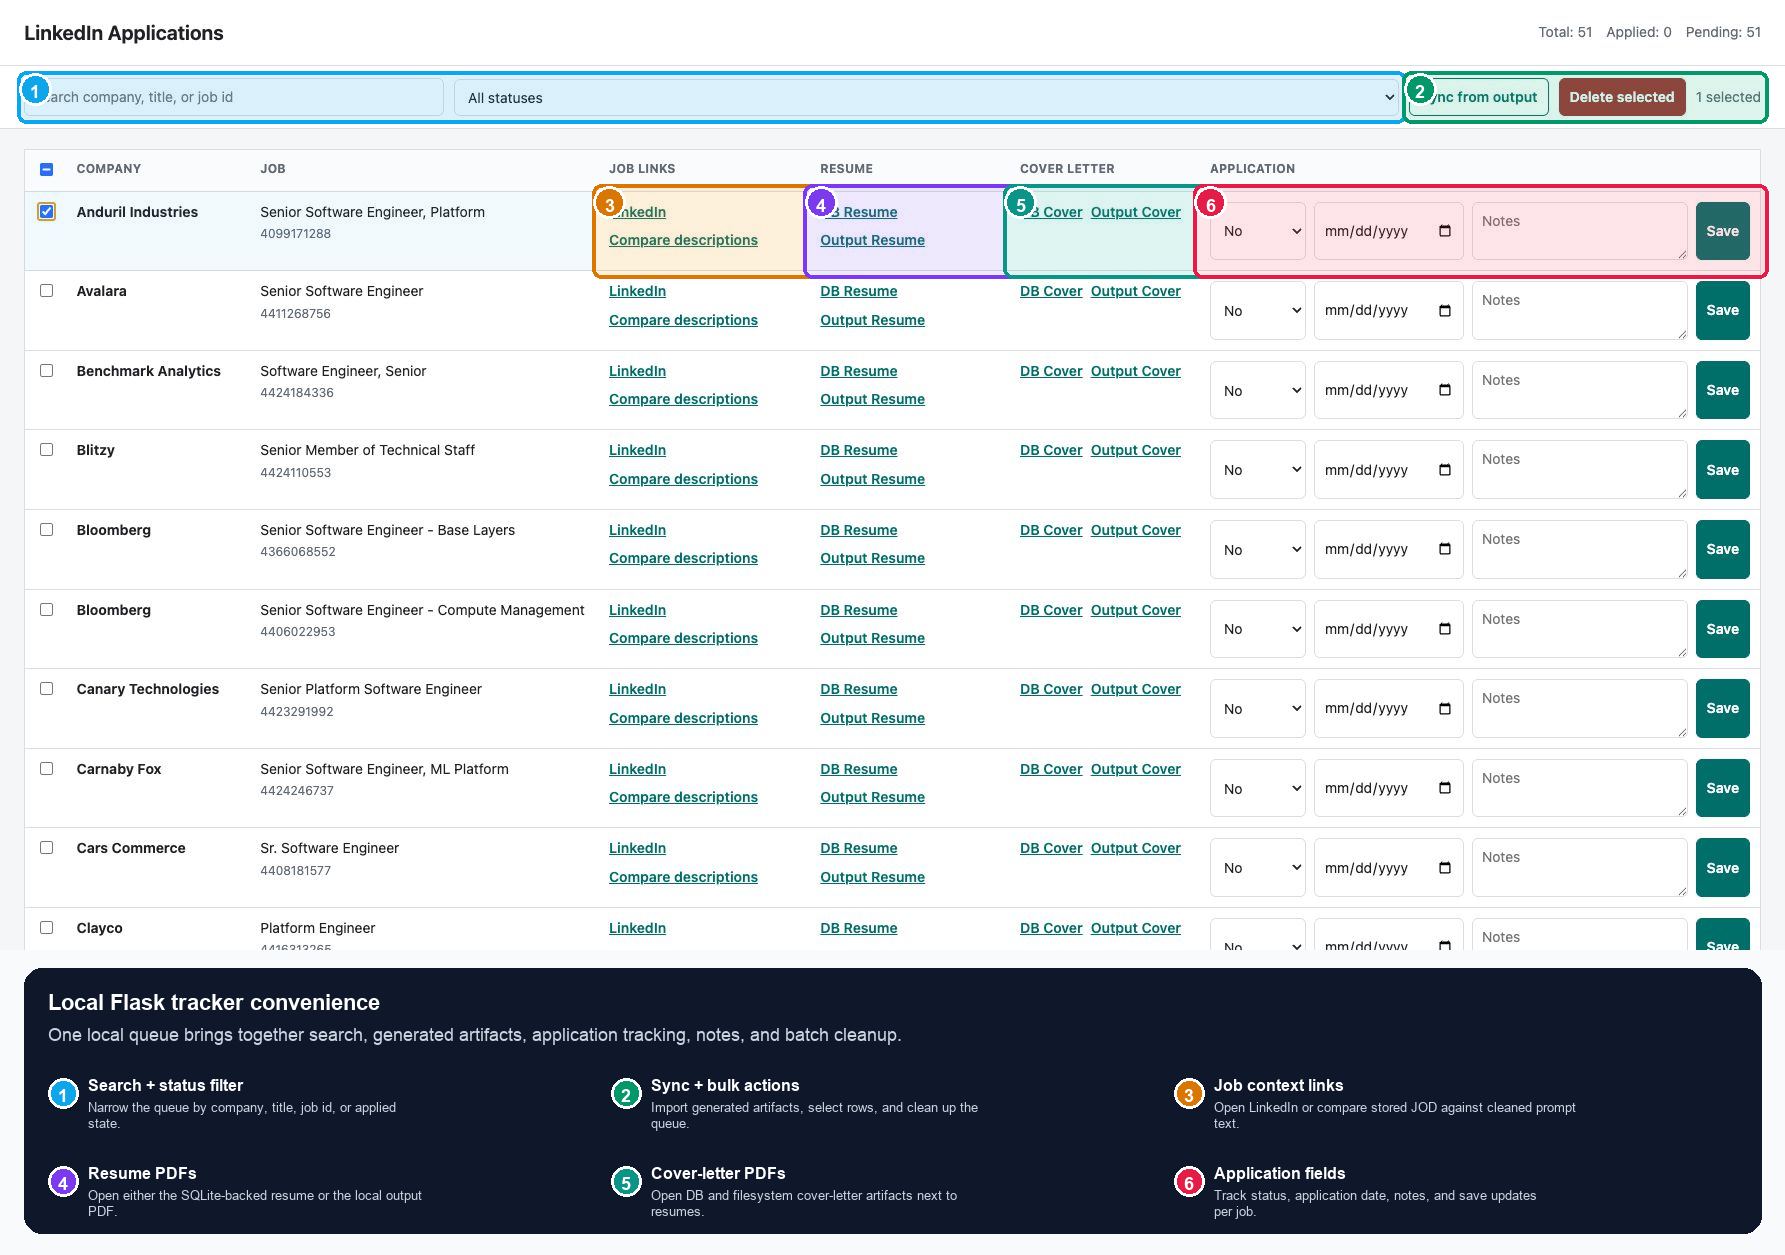
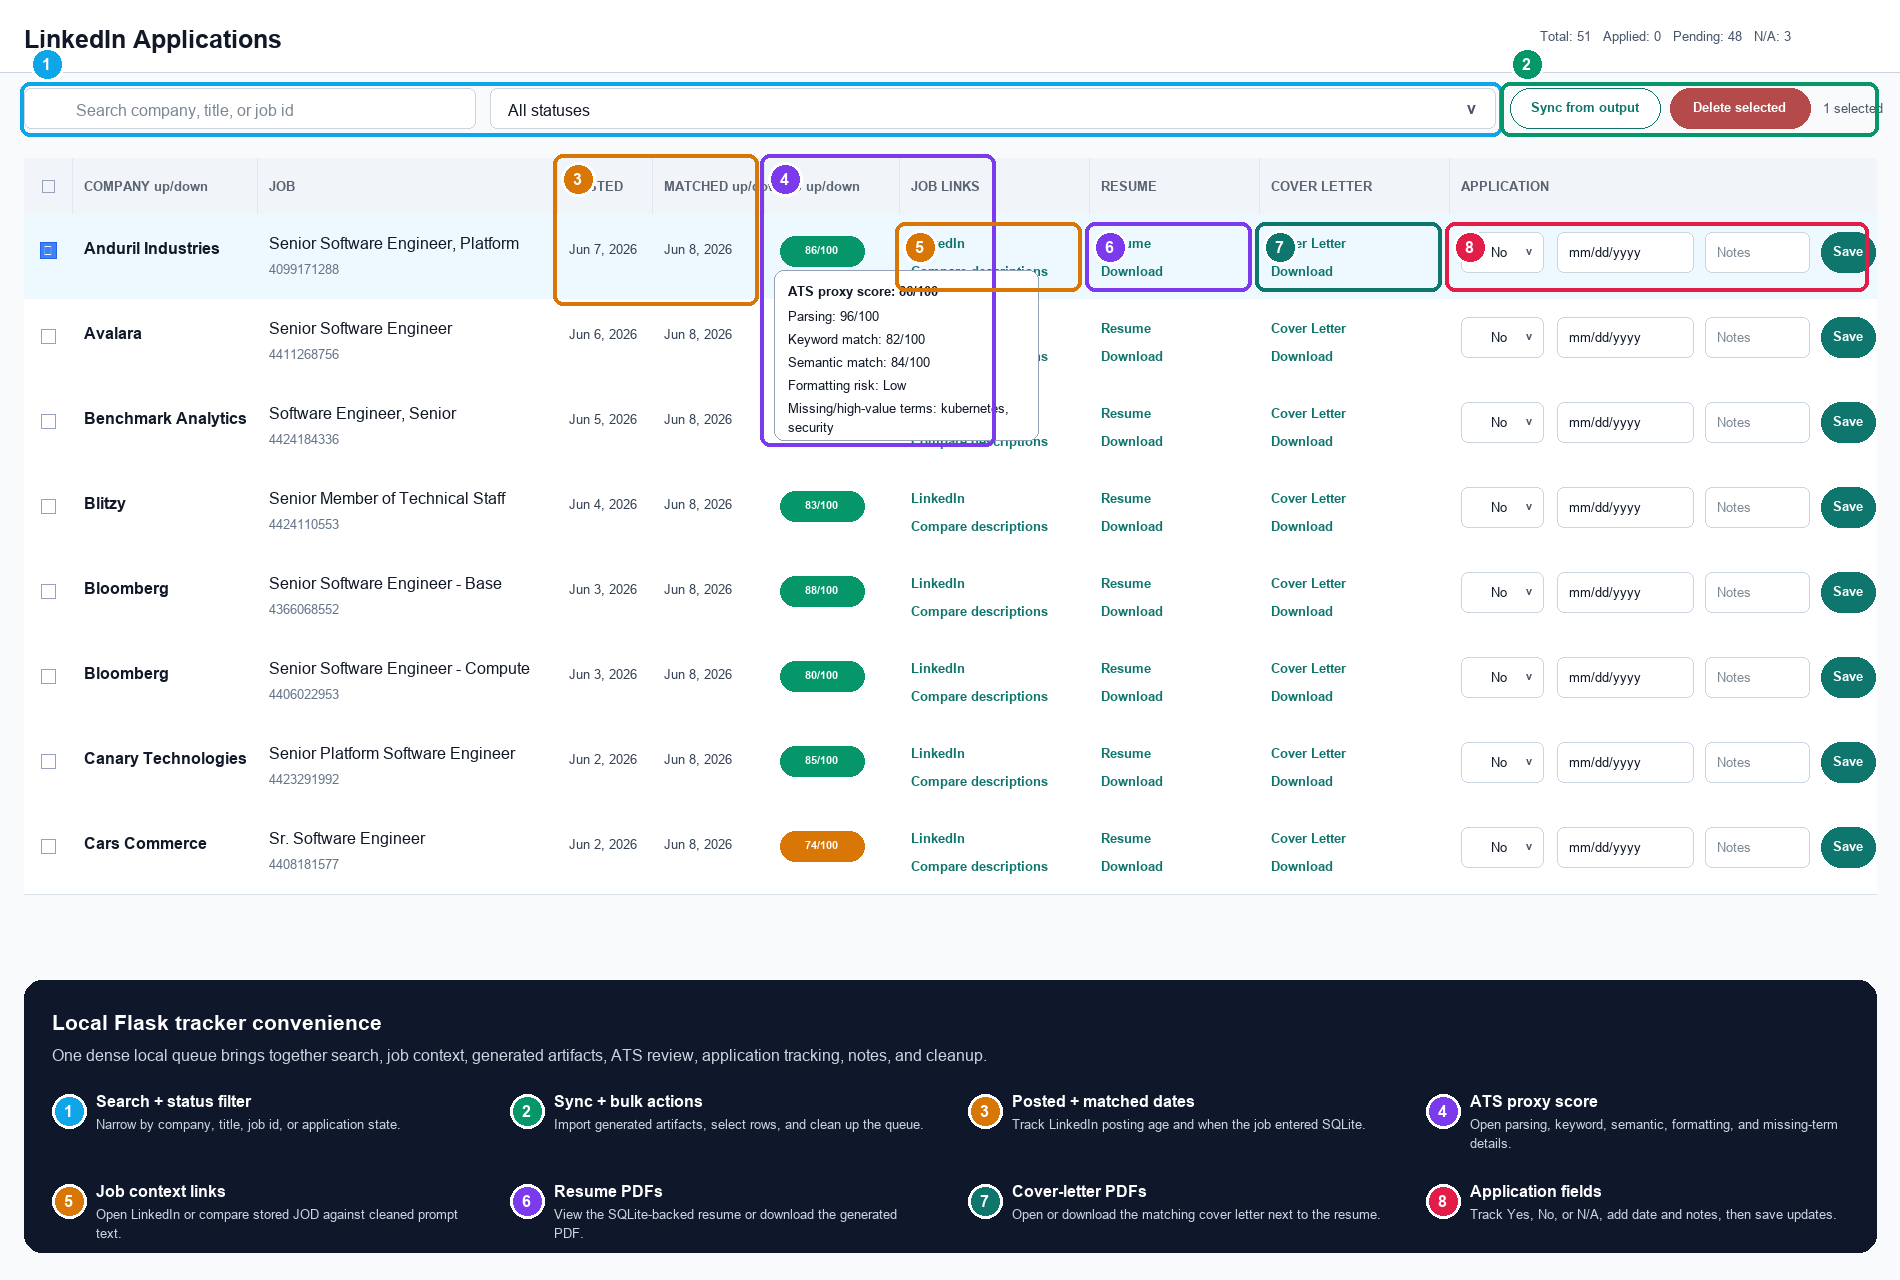
Document ATS workflow and tracker visuals

Changed region(s): [[0.0, 0.0, 1.0, 0.9944], [0.7395, 0.4972, 0.8627, 0.7147]]

diff --git a/README.md b/README.md
@@ -56,21 +56,39 @@ application artifacts while preserving a human-owned application workflow.
 
 Zooming in on the templating layer from the workflow above, this example shows how a
 resume or cover-letter artifact is assembled from fixed local sections and targeted
-generated sections.
+generated sections. This is also where the resume workflow keeps the document easy for ATS
+parsers to read: the template owns the structure, while each generated section is bounded to
+the part of the document it is allowed to change.
 
 ![Section-aware resume and cover-letter template generation](docs/assets/section-aware-template-generation.svg)
 
 Resume and cover-letter artifacts are assembled from a mix of stable local template sections
 and job-specific generated sections. Red sections stay static across jobs; blue sections are
 generated through focused prompts that compare the CJD, SCJDiR, and JOD before rendering the
-final PDF.
+final PDF. After a resume PDF is rendered, a local ATS proxy can identify missing high-value
+terms and, when those terms are present in `profile/skills.md`, repair the Core Technical
+Skills section before the artifact is stored.
+
+## ATS Feedback Loop
+
+The ATS feature is a local quality signal, not a claim to reproduce any one vendor's ranking
+system. It gives the workflow a repeatable way to inspect generated resumes before they land
+in the tracker:
+
+- extract text from the generated PDF and compare it against the cleaned JOD
+- calculate an overall proxy score plus parsing, keyword, semantic, and formatting-risk
+  sub-scores
+- surface missing high-value terms in the Flask tracker so the gap is visible during review
+- check missing terms against `profile/skills.md` during resume generation, then add factual
+  matches to the appropriate Core Technical Skills category without another LLM call
+- store the final repaired PDF and updated ATS breakdown in SQLite
 
 ## Local Tracker Convenience
 
 The Flask tracker turns generated artifacts into a practical application queue: search and
 filter jobs, open LinkedIn/JOD comparison/resume/cover-letter links, update application
-status, keep notes, sync from local output, and clean up selected rows without leaving the
-local workflow.
+status, inspect ATS score details, keep notes, sync from local output, and clean up selected
+rows without leaving the local workflow.
 
 ![Annotated local Flask application tracker](docs/assets/flask-application-tracker-annotated.png)
 
